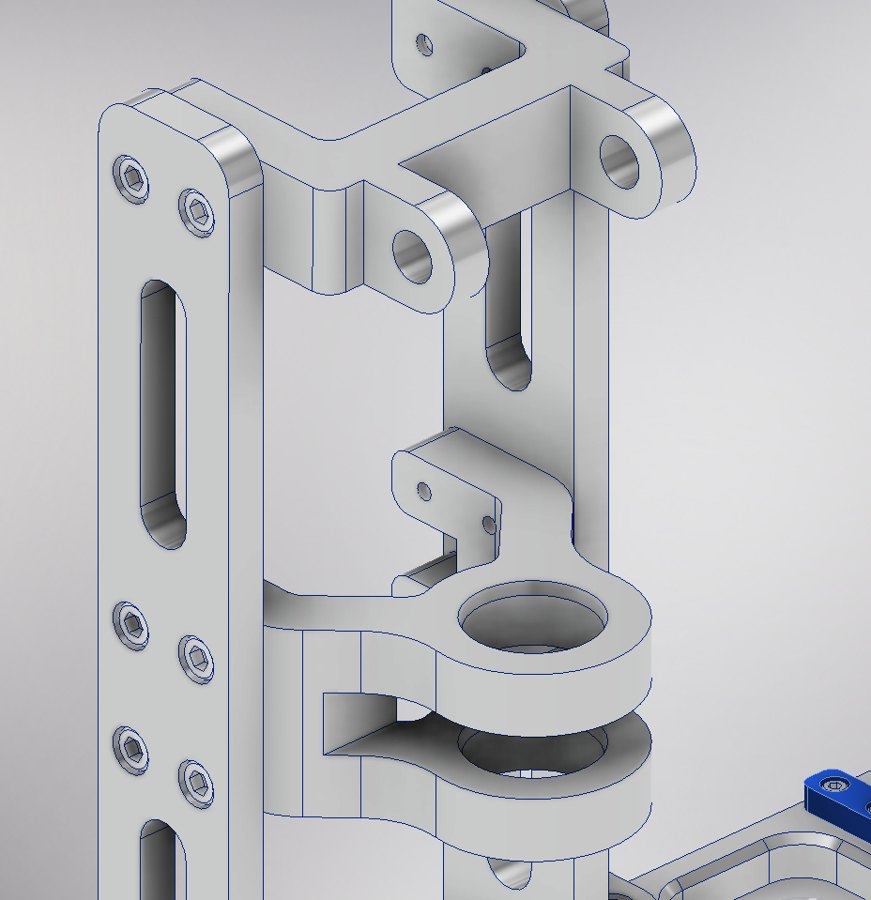
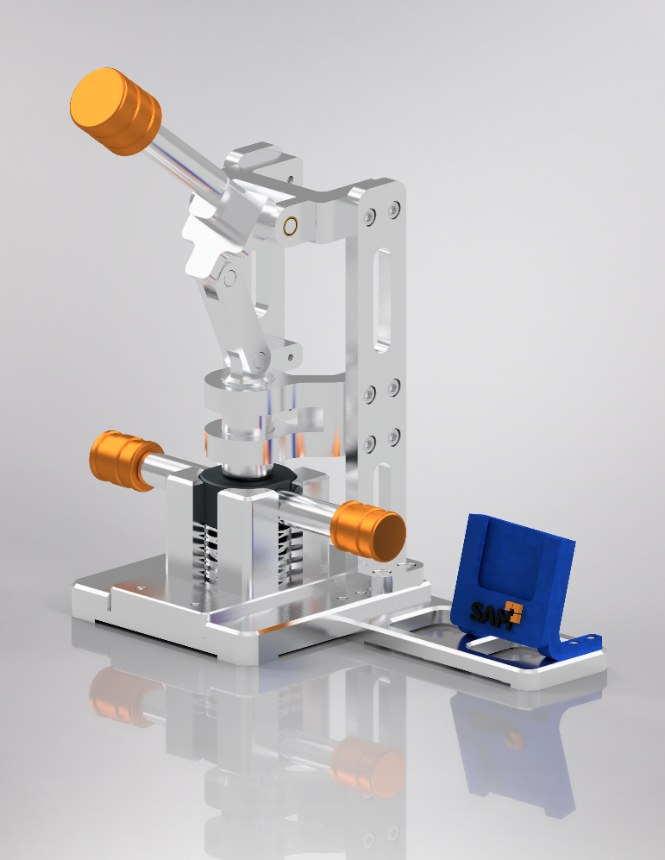
Ginocchiera: render dell'assieme completo e descrizioni in forma neutra
Claude-Session: https://claude.ai/code/session_01HV8MjfD3W8hqUsLRUX24WY

diff --git a/ginocchiera/index.html b/ginocchiera/index.html
@@ -25,7 +25,7 @@
   <aside class="panel3">
     <header>
       <h1>Pressa a ginocchiera</h1>
-      <p class="sub">Il modello di Sam Schillerwein, ricostruito dai suoi render CAD.</p>
+      <p class="sub">Modello 3D ricostruito dai render CAD del dispositivo.</p>
     </header>
 
     <section>
@@ -198,7 +198,7 @@
   </section>
 
   <section class="reveal">
-    <h2>La formula del modello di Sam</h2>
+    <h2>La formula del dispositivo</h2>
     <div class="formula">
       <span class="f">F_out = F_in · L_A · cos φ / (L₁ · sin(θ + φ))</span>
       <p>θ è l&#x27;angolo della manovella rispetto all&#x27;allineamento, φ quello della biella, L_A la leva e L₁ la manovella. All&#x27;inizio della pressatura (θ = 37,6°) la forza è circa 4 volte quella sulla leva, a fine corsa (θ = 2,51°) circa 51 volte. Con le aste allineate tenderebbe all&#x27;infinito.</p>
@@ -217,11 +217,11 @@
   </section>
 
   <section class="reveal">
-    <h2>Il modello di Sam</h2>
+    <h2>Il modello</h2>
     <p class="lead">Il meccanismo costruito per l'Open Day.</p>
     <div class="model">
-      <img src="render.jpg" alt="Render CAD del modello di Sam Schillerwein" style="border-radius:14px;display:block;width:100%">
-      <p class="lead" style="margin:0">Il modello di Sam è una pressa con leva, manovella e biella: abbassando la leva la manovella si avvicina all&#x27;allineamento e il punzone preme sul piattello, che è sostenuto da una molla. Una battuta meccanica ferma la leva vicino al punto morto.</p>
+      <img src="render.jpg" alt="Render CAD dell’assieme completo" style="border-radius:14px;display:block;width:100%">
+      <p class="lead" style="margin:0">Il dispositivo è una pressa a leva: abbassando la leva, la manovella si avvicina all&#x27;allineamento con la biella e il punzone preme sul piattello, sostenuto da una molla. Una battuta meccanica ferma la leva vicino al punto morto.</p>
       <dl>
         <dt>Leva (L_A)</dt><dd>circa 150 mm</dd>
         <dt>Manovella (L₁)</dt><dd>40 mm</dd>
@@ -358,7 +358,7 @@ Mecc.reveal();
 <script src="../assets/lib/OrbitControls.js"></script>
 <script>
 window.addEventListener("error", e => { const m = document.getElementById("loadmsg"); if (m) m.textContent = "Errore nel modello 3D: " + e.message; });
-/* Modello 3D interattivo della pressa a ginocchiera di Sam Schillerwein.
+/* Modello 3D interattivo della pressa a ginocchiera.
    Quote ricavate dai render CAD; scala fissata con la corsa utile del punzone (13,4 mm).
    Leva LA = 150 mm, manovella L1 = 40 mm, biella L2 = 60 mm. Unità: mm. */
 (function(){

diff --git a/ruotismo-epicicloidale/index.html b/ruotismo-epicicloidale/index.html
@@ -137,7 +137,7 @@
   </section>
 
   <section class="reveal">
-    <h2>Il modello di Alessandro</h2>
+    <h2>Il modello</h2>
     <p class="lead">Il meccanismo costruito per l'Open Day.</p>
     <div class="model">
       <div class="ph">Foto o render del modello<br>(in arrivo)</div>

diff --git a/biella-manovella/index.html b/biella-manovella/index.html
@@ -150,7 +150,7 @@
   </section>
 
   <section class="reveal">
-    <h2>Il modello di Manuel</h2>
+    <h2>Il modello</h2>
     <p class="lead">Il meccanismo costruito per l'Open Day.</p>
     <div class="model">
       <div class="ph">Foto o render del modello<br>(in arrivo)</div>

diff --git a/croce-di-malta/index.html b/croce-di-malta/index.html
@@ -135,7 +135,7 @@
   </section>
 
   <section class="reveal">
-    <h2>Il modello di Julian</h2>
+    <h2>Il modello</h2>
     <p class="lead">Il meccanismo costruito per l'Open Day.</p>
     <div class="model">
       <div class="ph">Foto o render del modello<br>(in arrivo)</div>

diff --git a/giunto-cardanico/index.html b/giunto-cardanico/index.html
@@ -145,7 +145,7 @@
   </section>
 
   <section class="reveal">
-    <h2>Il modello di Giada</h2>
+    <h2>Il modello</h2>
     <p class="lead">Il meccanismo costruito per l'Open Day.</p>
     <div class="model">
       <div class="ph">Foto o render del modello<br>(in arrivo)</div>

diff --git a/vite-ricircolo-sfere/index.html b/vite-ricircolo-sfere/index.html
@@ -164,7 +164,7 @@
   </section>
 
   <section class="reveal">
-    <h2>Il modello di Ruben</h2>
+    <h2>Il modello</h2>
     <p class="lead">Il meccanismo costruito per l'Open Day.</p>
     <div class="model">
       <div class="ph">Foto o render del modello<br>(in arrivo)</div>
